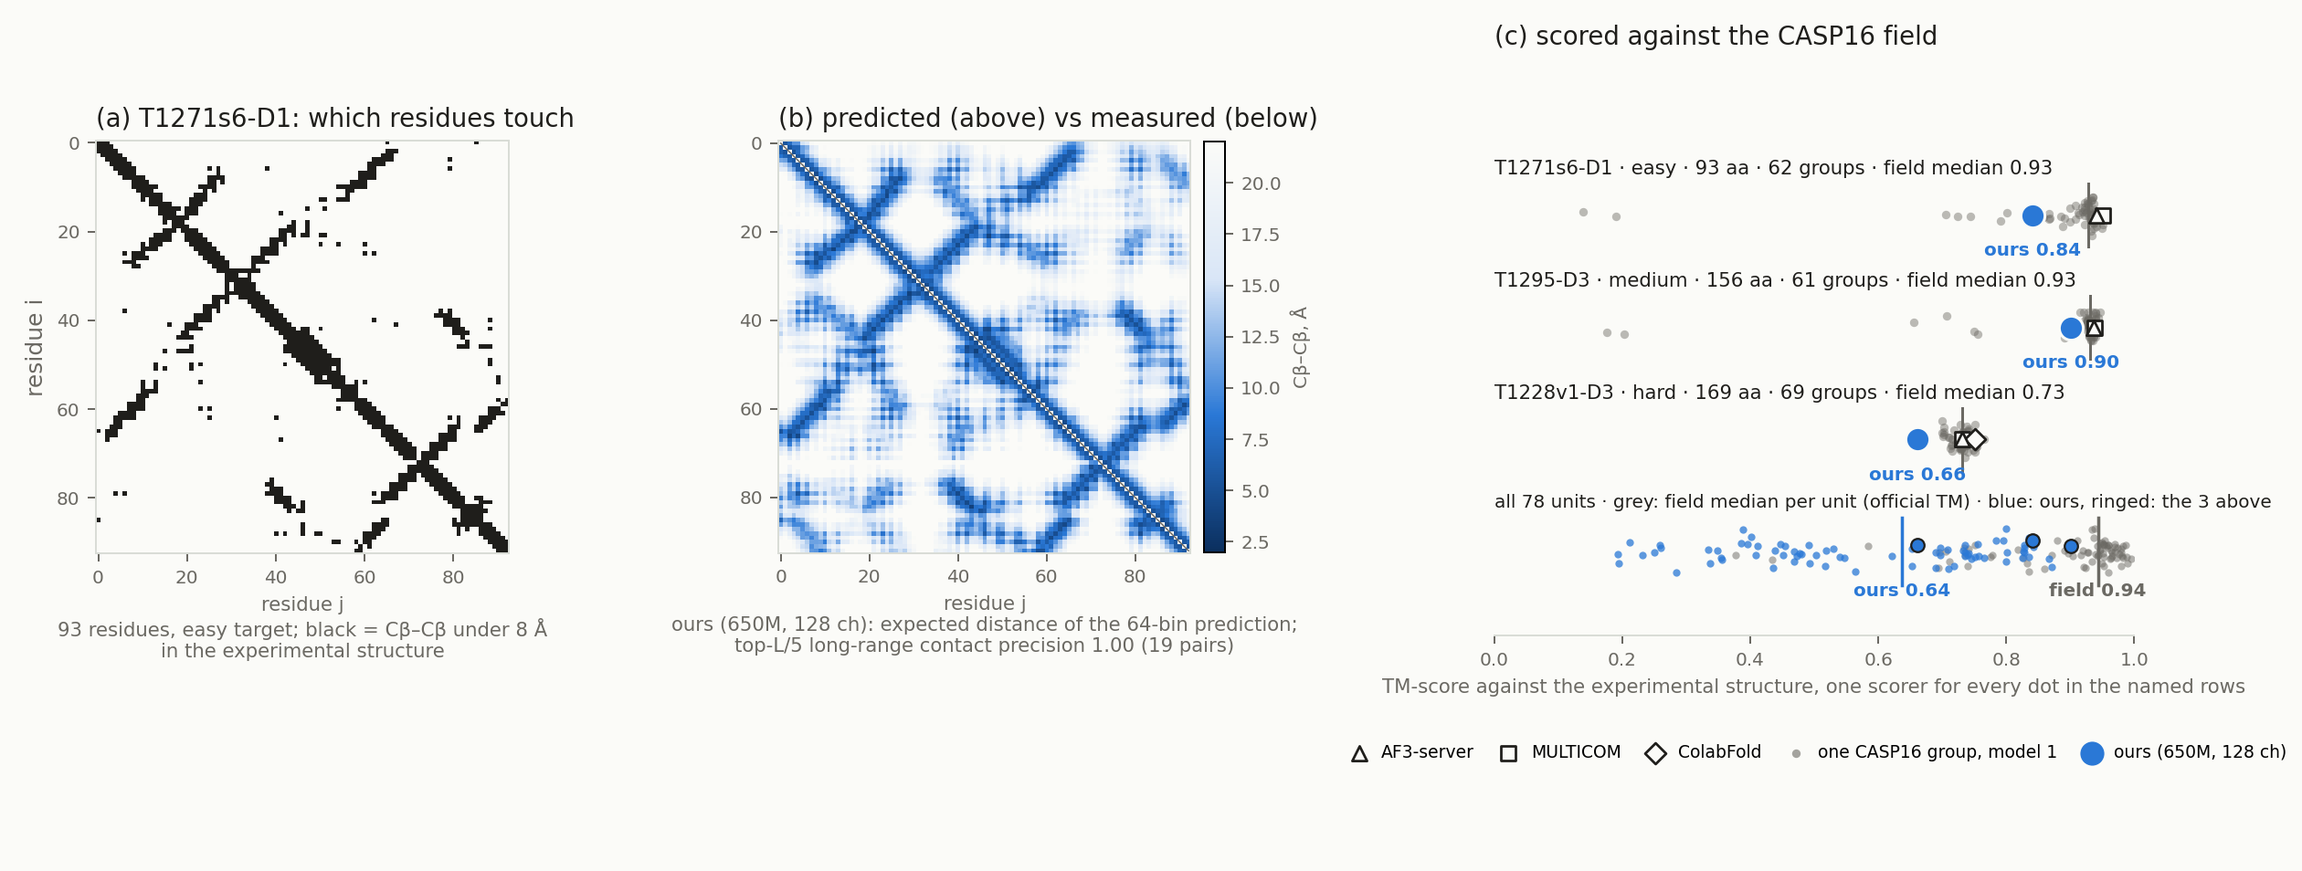
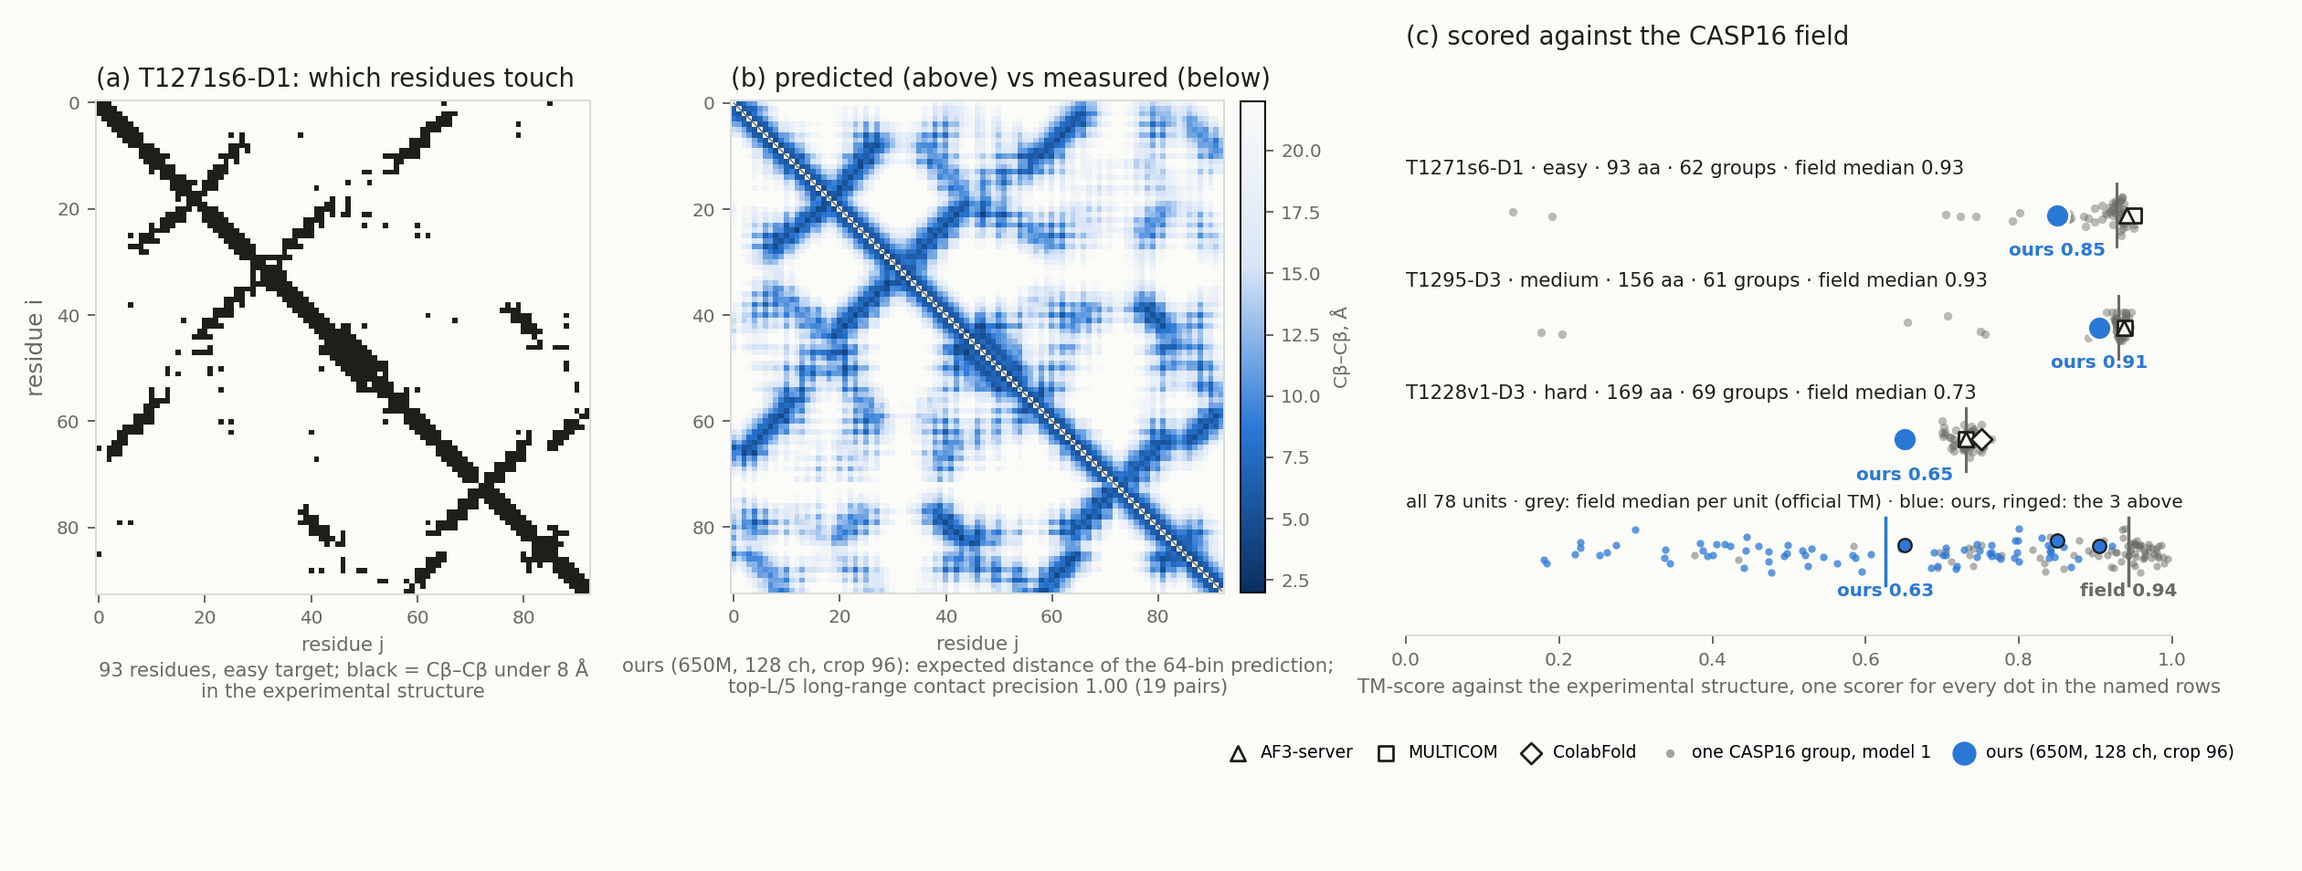
demos(casp16): the last arm lands and the handoff points at the 650M book run. 650M × 128 ch × crop 96 × 30 ep (queue11, 6.1 h on one 4060 Ti): top-L/5 long-range precision 0.858 over the 84 EUs (easy 0.866 / medium 0.885 / hard 0.674), the plain fold's Cβ-lDDT / TM 0.600 / 0.598 over 78 — width and
Claude-Session: https://claude.ai/code/session_018i5r4gjWZyaLVQJ9j6GDb9

diff --git a/scripts/demos/casp16_figure.py b/scripts/demos/casp16_figure.py
@@ -43,6 +43,7 @@ if __name__ == "__main__":
     ap.add_argument("--label", default="ours")
     ap.add_argument("--metric", choices=["lddt", "tm"], default="lddt",
                     help="panel (c)'s axis: Cβ-lDDT (CASP's headline, mirror-blind) or TM-score (sees chirality; the fair column against the official table)")
+    ap.add_argument("--fold", default="", help="which fold panel (c) shows: '' = <EU>.fold.pdb (plain); 'orient' = <EU>.orient.fold.pdb, the ω/φ-restrained fold, with fold_scores_orient.csv for the all-units row")
     ap.add_argument("--all-units", action="store_true",
                     help="add a bottom row to (c) with every folded unit: ours (blue) beside each unit's field median from the official score table (grey)")
     a = ap.parse_args()
@@ -101,7 +102,7 @@ if __name__ == "__main__":
             if r["group"].zfill(3) in NAMED:
                 nm, mk = NAMED[r["group"].zfill(3)]
                 ax.scatter([float(r[col])], [y], marker=mk, s=42, facecolor=PAPER, edgecolor=INK, lw=1.1, zorder=4)
-        fold = d / f"{eu}.fold.pdb"
+        fold = d / f"{eu}{'.' + a.fold if a.fold else ''}.fold.pdb"
         if fold.exists():
             sc = score(fold, eu, pseudo_cb=True, tag=f"fig-{eu}")
             ours[eu] = sc
@@ -114,7 +115,7 @@ if __name__ == "__main__":
         # pseudo-Cβ atoms and reads 0.01–0.02 under the official Cα TM-score); the official LDDT is
         # all-atom, which our trace cannot be scored on, so that comparison is approximate
         from casp16_table import field_percentiles
-        rows = field_percentiles(d, "")
+        rows = field_percentiles(d, f"_{a.fold}" if a.fold else "")
         o = np.array([r[2] if a.metric == "lddt" else r[5] for r in rows])
         fm = np.array([r[3] if a.metric == "lddt" else r[6] for r in rows])
         y = 0; jit = rng.normal(0, 0.09, len(rows))
@@ -132,7 +133,8 @@ if __name__ == "__main__":
         ax.scatter([], [], marker=mk, s=42, facecolor=PAPER, edgecolor=INK, lw=1.1, label=nm)
     ax.scatter([], [], s=14, color=MUTED, alpha=0.6, lw=0, label="one CASP16 group, model 1")
     ax.scatter([], [], s=90, color=BLUE, label=f"{a.label}")
-    ax.legend(loc="upper center", fontsize=7.5, frameon=False, ncol=5, bbox_to_anchor=(0.5, -0.16), handletextpad=0.3, columnspacing=1.0)
+    leg = ax.legend(loc="upper center", fontsize=7.5, frameon=False, ncol=5, bbox_to_anchor=(0.42, -0.16), handletextpad=0.3, columnspacing=0.9)
+    leg.set_in_layout(False)  # the row may overhang under (b), where nothing is; kept out of tight_layout so a long "ours" label cannot push (c) off the page
     ax.set_xlim(0, 1.0); ax.set_ylim(-0.75, nrows - 0.3 + 0.7)
     ax.set_yticks([])
     ax.set_xlabel(("Cβ-lDDT" if a.metric == "lddt" else "TM-score") + " against the experimental structure, one scorer for every dot"

diff --git a/scripts/demos/casp16_ablation_figure.py b/scripts/demos/casp16_ablation_figure.py
@@ -18,6 +18,7 @@ BLUE, INK, MUTED, PAPER = "#2a78d6", "#1f1e1b", "#6b6963", "#fbfbf8"
 BASE = "r16x64_esm650_train_full_e30-esm650"
 # label, prediction dir (under .lake/build/distogram_<…>_targets), fold file
 ROWS = [
+    ("+ 128 ch + crop 96 + orientation heads, 100 ep: the book run, ω/φ fold", "r16x128_esm650_orient_train_full_e100-esm650-crop96-orient", "fold_scores_orient.csv"),
     ("+ 128 ch + crop 96 (both levers)",               "r16x128_esm650_train_full_e30-esm650-crop96", "fold_scores.csv"),
     ("+ crop 96 + orientation heads, ω/φ fold",        "r16x64_esm650_orient_train_full_e30-esm650-crop96-orient", "fold_scores_orient.csv"),
     ("+ 128 channels",                                 "r16x128_esm650_train_full_e30-esm650", "fold_scores.csv"),

diff --git a/planning/casp16_distogram_demo.md b/planning/casp16_distogram_demo.md
@@ -11,7 +11,7 @@ https://claude.ai/artifact/TFoTN9GQvcEHe5eBkwYBvK, panel g already real). This d
 plan after the feasibility pass against the repo, with the four changes of §1 and the scoring
 recipe of §5 validated.
 
-Status 2026-10-02 12:30: the whole pipeline runs and the ablation table (§10) is filled
+Status 2026-10-02 18:40: the whole pipeline runs and the ablation table (§10) is filled
 (§11 is the handoff: what is running, where, and what to do when it finishes; §10a the night's
 findings). Data, `pairTile` + its VJP lemma, trainer, fold, scoring all landed (commits bc09c154
 … 77254aaa); the night's additions (orientation heads, the fold's angular restraints, the
@@ -25,9 +25,11 @@ AF3-era groups is not a contact-precision gap. The orientation heads leave the d
 unchanged and their ω/φ restraints lift the fold by +0.02 on 73 of 78 EUs and halve wrong-hand
 picks. At 650M each of width (128 ch: 0.848, fold 0.590 / 0.590), crop 96 (0.850, 0.583 / 0.589) and
 100 epochs (0.847, 0.587 / 0.588) is worth +0.01 on the EUs and +0.02 on the fold, against a seed
-gap of 0.002 / 0.001; ensembles of these heads add nothing (the LM bounds the map). The book run
-as launched (128 ch × 100 ep, 35M: 0.647, fold 0.466 / 0.443) finished at 09:27 and is the wrong
-feature set — the 650M book-run choice is Brett's (§11). Draft figure:
+gap of 0.002 / 0.001, and width and crop add: 128 ch × crop 96 is **0.858** (0.866 / 0.885 / 0.674)
+with the plain fold at **0.600 / 0.598**, the best single arm on every column; ensembles of these
+heads add nothing (the LM bounds the map). The book run as launched (128 ch × 100 ep, 35M: 0.647,
+fold 0.466 / 0.443) finished at 09:27 and is the wrong feature set — the 650M book run is 128 ch ×
+crop 96 × 100 ep with `orient=1`, ~20 h on one card, for Brett to schedule (§11, §11a item 6). Figure:
 `scripts/demos/casp16_figure.py` → https://claude.ai/artifact/CyZfnLRWnjkpByMqdHyzTo.
 
 ## 0. The one-paragraph version
@@ -331,7 +333,7 @@ fold Cβ-lDDT / TM over the folded EUs · GPU-hours. Rows and their state:
 | 650M, seed 2 | the error bar at the top LM | done 12:07: val 51.3 %, EUs 0.836 (0.849 / 0.863 / 0.632), fold 0.570 / 0.571 — seed noise 0.002 on the EUs, 0.001 on the fold; every lever above is 5–20× it |
 | ensembles (`casp16_ensemble.py`) | do differently-trained heads on one LM add information | 650M plain + orient: EUs 0.842 (members 0.838 / 0.838), fold 0.569 / 0.575 — nothing; ω/φ fold 0.579 / 0.592 vs 0.574 / 0.591. Five members (seeds 1–2, 128 ch, crop 96, 100 ep): EUs 0.852 vs the best member's 0.850, fold running GPU 3 (queue12.sh). The heads agree on what they miss: the LM bounds the map |
 | crop 96 × 650M × orientation heads | do the crop gain and the ω/φ fold gain stack | trained 13:41 (2.6 h): EUs 0.850 (= the plain crop-96 arm, the distance head unchanged a third time); plain fold 0.576 / 0.586 (plain crop 96: 0.583 / 0.589, within the arms' spread); **ω/φ fold 0.585 / 0.606** (TM median 0.644), wrong hands 2 — the best fold of the table: the angular restraints add +0.009 / +0.020 on top of crop 96, so the two gains stack |
-| 650M × 128 ch × crop 96 | do width and crop stack (the config a 650M book run would use) | running GPU 2 from 11:39 (queue11.sh), 724 s/epoch → ~17:45 + finish |
+| 650M × 128 ch × crop 96 | do width and crop stack (the config a 650M book run would use) | done 18:09 (6.1 h train): EUs **0.858** (0.866 / 0.885 / 0.674), fold **0.600 / 0.598** (TM median 0.626), 7 wrong hands — +0.020 EUs, +0.031 / +0.026 fold over the 64-ch arm: the two levers add (128 ch alone +0.010 / +0.021 / +0.018, crop 96 alone +0.011 / +0.014 / +0.017); the best single arm on every column, and its plain fold beats the crop 96 × orient ω/φ fold on lDDT (0.600 vs 0.585) while trailing it on TM (0.598 vs 0.606) — the book run takes both |
 | 650M, purged list (`list=train`) | templates at the top LM | done 14:11: EUs 0.841 (vs 0.838 with the 82 template chains), fold 0.569 / 0.567 (vs 0.569 / 0.572), 7 wrong hands — templates in the training set are worth nothing at 650M, as at 35M (0.599 vs 0.585) |
 | fold: steps × lr on 200–500-residue val chains | the fold's ceiling on the chains it fails | done (650M arm, restarts 0, GPU): long chains 0.629 / 0.708 at 1500 steps, 0.629 / 0.709 at 4000; lr 0.2 / 0.5 / 1.0 → 0.627 / 0.629 / 0.630; short chains 0.617 / 0.593, 4000 steps 0.617 / 0.588, lr 0.2 0.621 / 0.603 — the optimizer is converged; and the long val chains fold BETTER than the short ones, so the EU failures are not a length effect |
 | fold: no reference state / confidence weighting | the fold's levers | reference state done (0.415 → 0.518); confidence weighting closed by the energy-gap diagnostic (§10a): under every re-weighting the true trace scores worse than our fold, so no weighting of this distogram reaches it |
@@ -423,53 +425,56 @@ folding Cα and Cβ per residue, 6 coordinates, with the Cα–Cβ bond fixed at
 on CASP13 FM targets; that is the gap between our fold (0.46 TM on T1267s1-D1) and the
 contact precision (0.67) suggests is available.
 
-## 11. Handoff — the state at 2026-10-02 12:30 and what is still running
+## 11. Handoff — 2026-10-02 18:40: every arm landed; next, the 20-hour book run
 
-Everything the night and morning produced is in §10 (table), §10a (findings) and §12 (log); the
-one-line version: **the LM is the lever** (35M 0.585 → 150M 0.735 → 650M 0.838 on the 84 EUs at
-64 ch × 30 ep), and at 650M each of width, crop 96 and 100 epochs is worth +0.01 on the EUs and
-+0.02 on the fold, against a seed gap of 0.002 / 0.001. The field TM percentile is 0.02 at every
-arm: the fold's distance to the field is the LM's.
+Everything the night and the day produced is in §10 (table), §10a (findings), §11a (the week
+plan) and §12 (log); the one-line version: **the LM is the lever** (35M 0.585 → 150M 0.735 → 650M
+0.838 on the 84 EUs at 64 ch × 30 ep), at 650M width and crop 96 add (128 ch × crop 96: 0.858,
+fold 0.600 / 0.598, the best single arm on every column), and the ω/φ restraints add +0.02 TM on
+top of crop 96. The field TM percentile is 0.02 at every arm: the fold's distance to the field is
+the LM's. The night is committed (49f6993b, on origin/main); the last row, both figures and this
+section are the commit after it. All four cards idle since 18:09.
 
-Running (every job finishes itself — predict, assemble, fold, score — and `casp16_table.py
---field` reads the result from disk; logs in `runs/2026-10-02-distogram-ablations/`):
+**Next: the 650M book run** — 128 ch × crop 96 × 100 epochs with the orientation heads, the one
+config every stacking result points at. Written, not launched (Brett 18:40: "point the handoff at
+the 20 hour run and we'll come back to it"); it is one command on an idle card:
 
-| GPU | job | queue / log | lands |
-|---|---|---|---|
-| 0 | crop 96 × 650M × orientation heads, 64 ch × 30 ep, then plain + ω/φ folds | `queue10.sh` → `queue10.log`, `finish_esm650_crop96_orient.log` | ~14:30 |
-| 1 | idle since 12:23 | | |
-| 2 | 650M × 128 ch × crop 96, batch 16, 30 ep | `queue11.sh` → `queue11.log`, `finish_esm650x128_crop96.log` | ~18:30 |
-| 3 | five-member 650M ensemble fold, then 650M on the purged list (`list=train`) | `queue12.sh` → `queue12.log`, `finish_esm650_purged.log` | ~12:45, then ~14:15 |
+    setsid -f nohup runs/2026-10-02-distogram-ablations/queue13_bookrun.sh 1 \
+      > runs/2026-10-02-distogram-ablations/queue13.log 2>&1 < /dev/null
 
-Kill anything with `pkill -f "[d]istogram-casp"` or `pkill -f "[q]ueue1"` (bracket the pattern,
-and mention nothing else with the target's name in the same command — see §12, 08:05).
+The argument is the card. `queue13_bookrun.sh` is queue11 with `epochs=100 orient=1` and queue10's
+tail: it trains into `runs/<launch date>-distogram-r16x128-e100-esm650-crop96-orient/train.log`
+(one line per epoch, ~727 s each over 1,644 steps → ~20 h; the 35M book run's 100 epochs ran
+without a hitch), then `finish_run.sh` (predict → assemble → plain fold → score, ~45 min, into
+`finish_bookrun.log`), then the ω/φ fold and `casp16_fold_score.py --suffix orient` (~40 min), and
+ends with `queue13 done` in `queue13.log`. Disk: 140 GB free; the run keeps a few GB (params +
+predictions) and has an 8 GB transient. Kill: `pkill -f "[d]istogram-casp"` (bracket the pattern,
+and mention nothing else with the target's name in the same command — §12, 08:05).
 
-Decisions for Brett:
-1. **The book run.** The 35M × 128 ch × 100 ep run finished (0.647 / fold 0.466 / 0.443) but is the
-   wrong LM. On the EUs the best single arms are 650M crop 96 (0.850), 128 ch (0.848) and 100 ep
-   (0.847); on the fold 128 ch (0.590 / 0.590), 100 ep (0.587 / 0.588), crop 96 (0.583 / 0.589).
-   queue11 (128 ch × crop 96) says by ~18:30 whether width and crop stack; queue10 whether the ω/φ
-   fold gain stacks on crop 96. The natural book run is 650M × 128 ch × crop 96 × 100 ep (+ `orient=1`
-   if queue10 says yes): 724 s/epoch → 20 h on one card, so it is an overnight-and-a-day job, or
-   65 ch × crop 96 × 100 ep at 8 h.
-2. **Featured EUs (§9).** T1226-D1 has precision 0.00–0.08 at every LM; its fold at the field median
-   is the prior's doing. T1235-D1 is our weakest easy EU (0.71 / TM 0.38). Candidates at 650M:
-   T1271s6-D1 (easy, 93 aa, P 1.00, TM 0.82 vs field 0.95), T1295-D3 (medium, 156 aa, P 1.00, TM 0.88
-   vs 0.94) or T1267s1-D1 (medium, 157 aa, P 0.97, TM 0.73 vs 0.78), T1228v1-D3 (hard, 169 aa,
-   P 0.91, TM 0.64 vs 0.75).
-3. **Commit.** Nothing from the night is committed: `LossKind.perPixelMultiCE` (Types / Train /
-   MlirCodegen), `lean_casp_gather_orient` + `nd` in ffi/f32_helpers.c, `orient=1` in the demo,
-   `--orient` in labels / targets / pack, `--pool-out` in embed, fold.py (batched copies, ω/φ
-   restraints), `casp16_fold_score.py`, `casp16_table.py`, `casp16_ensemble.py`, the queue and
-   finish scripts, this plan. `lake exe distogram-casp smoke` is green both ways (plain: eval ≡
-   train 5.210230; orient: 14 finite-difference coordinates).
-4. **Disk.** 11 GB free. Deleted as regenerable: `emb/*.npy`, `emb150/*.npy`, `packed/
-   pool_esm150_feat.bin` (8 min on a GPU + `casp16_pack.py --sets pool`), every arm's `.acc.bin`
-   accumulators (`finish_run.sh` drops them after assembly). The 16 `distogram_*_targets` dirs
-   hold 1.3–2.5 GB of `.pred.npz` each; any arm's regenerates in two minutes from its kept params.
+What it should land, from the 30-epoch arm (0.858, fold 0.600 / 0.598) and the 64-ch
+schedule-length row (+0.009 / +0.018 / +0.016): ~0.865 on the EUs, a plain fold near 0.62 / 0.61,
+the ω/φ fold near 0.62 / 0.63. When it lands:
+1. `casp16_table.py --field` reads the row (`r16x128_esm650_orient_train_full_e100-esm650-crop96-orient`)
+   with the `(orient)` fold column beside the plain one; §10 gets the row, the status paragraph and
+   §0 the number.
+2. `casp16_ablation_figure.py` already lists the run as its top row ("the book run, ω/φ fold") and
+   skips it until the directory exists; re-run it.
+3. The figure, on the ω/φ fold (`--fold orient` puts `<EU>.orient.fold.pdb` and
+   `fold_scores_orient.csv` on panel (c)):
+   `casp16_figure.py .lake/build/distogram_r16x128_esm650_orient_train_full_e100-esm650-crop96-orient_targets
+   demos/figures/casp16_distogram.png --metric tm --all-units --fold orient --eus T1271s6-D1
+   T1295-D3 T1228v1-D3 --panel-a T1271s6-D1 --label "ours (650M, 128 ch, crop 96, 100 ep)"`.
+4. Then the section (§6, §9): the book run as the headline row, the §10 table as the ablation and
+   `casp16_ablation.png` beside it.
 
-Then: the section + figure + wiring (§6, §9), with the 650M arm as the headline and the §10 table
-as the ablation; `casp16_figure.py <…_targets> demos/figures/casp16_distogram.png --label "ours"`.
+Open for Brett besides the launch:
+- **Featured EUs (§9).** The committed figure carries the proposed trio T1271s6-D1 / T1295-D3 /
+  T1228v1-D3 (0.85 / 0.91 / 0.65 TM against field medians 0.93 / 0.93 / 0.73) with every folded
+  unit in the fourth row. The old trio (T1235-D1 / T1267s1-D1 / T1226-D1) is one `--eus` away;
+  T1226-D1's precision is 0.00–0.08 at every LM, so its dot at the field median was the prior's.
+- **The week plan (§11a)**, in order: attention maps as pair input, templates at inference, ESM-2
+  3B, recycling, dilations — each about a day plus a 70-minute run, all of them on the three cards
+  the book run leaves free.
 
 ## 11a. Where to go from here — the week plan (Brett, 2026-10-02 14:20: "throw it in the planning doc")
 
@@ -505,7 +510,7 @@ per unit, not a better optimizer (the energy-gap test, §10a, says the same from
 | 3 | **ESM-2 3B** (`esm2_t36_3B_UR50D`): 36 layers, 40 heads, embedding dim 2560, 2.8 B parameters. Checkpoint ~11 GB in fp32, ~5.6 GB in fp16 → fits a 16 GB card in fp16 for sequences ≤ 1,024 (`casp16_embed.py` runs the LM in fp32 today; it needs a `--half` flag). Pool: 6.12 M residues × 2,569 × 2 B = 31.4 GB (disk now 142 GB free). Time: the 650M pool took 1,644 s on one card; 3B is ~4.3× the FLOPs per token → ~2 h on one card, ~30 min across four (per-chain `.done` resume makes sharding by chain list trivial). ESM-2 15B (48 layers, dim 5120, 30 GB fp16) does not fit a card without 8-bit or sharding — out of scope. | `--half`, the model name in `MODELS`, `fs=esm3b dim=2569` | 2 h embed + 70 min/run | the ladder went +0.15 then +0.10 per step (35M → 150M → 650M); the next step should buy +0.04–0.06 on the units |
 | 4 | **Recycling.** A second pass that sees the first pass's distogram (softmax probabilities, or P(< 8 Å) + expected distance) as pair channels. | the pair-input op from #1; at train time the first pass runs under `stop-gradient` (the AF2 recipe); predict does two passes | half a day once #1 exists | AF2 found 3 recycles worth several lDDT points; here the honest expectation is +0.01–0.02 on the fold |
 | 5 | **Receptive field.** Dilated residual units (trRosetta: 1, 2, 4, 8 cycling) or whole-map training at batch 1 for the long units. | dilation on `convBn` (check the emitter), or `crop=0` meaning whole map | half a day + a run | crop 96 was +0.012; the long easy units are the target |
-| 6 | **The 650M book run**: 128 ch × crop 96 × 100 ep with `orient=1`, after queue11 says whether width and crop stack. | nothing new | ~20 h on one card (64 ch: 8 h) | the headline row |
+| 6 | **The 650M book run**: 128 ch × crop 96 × 100 ep with `orient=1` — queue11 answered the stacking question (0.858, fold 0.600 / 0.598 at 30 ep; the two levers add), queue10 that the ω/φ fold stacks on crop 96. | nothing new | ~20 h on one card (64 ch: 8 h) | the headline row: ~0.865 and a fold near 0.62 / 0.62 if the 64-ch schedule-length gain carries |
 | 7 | **The fold, last.** A full-backbone build from distances + ω/θ/φ (trRosetta style: rigid residue frames, spline potentials, both hands by energy), scored with the all-atom-ish lDDT the field is scored on. | a torch rigid-body model; the orientation heads already exist | 2 days | after #1–#3 the distogram stops being the ceiling and this becomes it |
 
 Cheap and low: test-time stride 16 / multi-crop averaging (+0.005 at best); ensembles (closed: nothing);
@@ -746,3 +751,22 @@ Day 6–7: the fold; the section + figure + wiring (§6, §9) with the proposed 
   35M −0.253 / −0.138 / −0.177; one-hot −0.586 / −0.250 / −0.344. The 128 ch × crop 96 row joins
   when queue11 lands. Brett: the trio reads as cherry-picked without the all-units row; the book
   wants "in the neighbourhood, a stepping stone", not SOTA. Plate rebuilt with both.
+- 2026-10-02 18:20: queue11 landed (650M × 128 ch × crop 96 × 30 ep, 49,320 steps in 6.1 h on
+  GPU 2): EUs 0.858 (0.866 / 0.885 / 0.674), fold Cβ-lDDT / TM 0.600 / 0.598 over 78 EUs (medians
+  0.621 / 0.626), 7 wrong hands. Width and crop add: +0.020 / +0.031 / +0.026 over the 64-ch arm
+  against +0.010 / +0.021 / +0.018 (128 ch) and +0.011 / +0.014 / +0.017 (crop 96); 95 % intervals
+  [+0.010, +0.030] / [+0.027, +0.036] / [+0.018, +0.036]. The best single arm on every column; the
+  field's TM percentile is still 0.02 (easy 0.671 vs 0.945, medium 0.566 vs 0.883, hard 0.462 vs
+  0.656). Both figures regenerated on this arm: `casp16_distogram.png` (the trio 0.85 / 0.91 / 0.65
+  TM against field medians 0.93 / 0.93 / 0.73; all 78 units median 0.63 vs 0.94) and
+  `casp16_ablation.png` (the row on top). `casp16_figure.py`: the legend is kept out of
+  `tight_layout` (`set_in_layout(False)`) and centred a little left of (c), because the longer
+  "ours" label pushed it off the page. All four cards idle; the 650M book run (§11a item 6) is
+  Brett's to schedule.
+- 2026-10-02 18:40: Brett: "point the handoff at the 20 hour run and we'll come back to it, commit".
+  §11 rewritten around the book run: `queue13_bookrun.sh <gpu>` (queue11 with `epochs=100
+  orient=1` plus queue10's ω/φ tail; ~22 h end to end), the expected numbers, the four steps when
+  it lands. `casp16_figure.py --fold orient` puts the ω/φ-restrained fold on panel (c) and the
+  all-units row (checked on the crop 96 × orient arm: the strip moves 0.794 / 0.798 / 0.592 →
+  0.798 / 0.802 / 0.602 Cβ-lDDT). `casp16_ablation_figure.py` lists the book run as its top row and
+  skips it until the directory exists. Committed; nothing launched.
